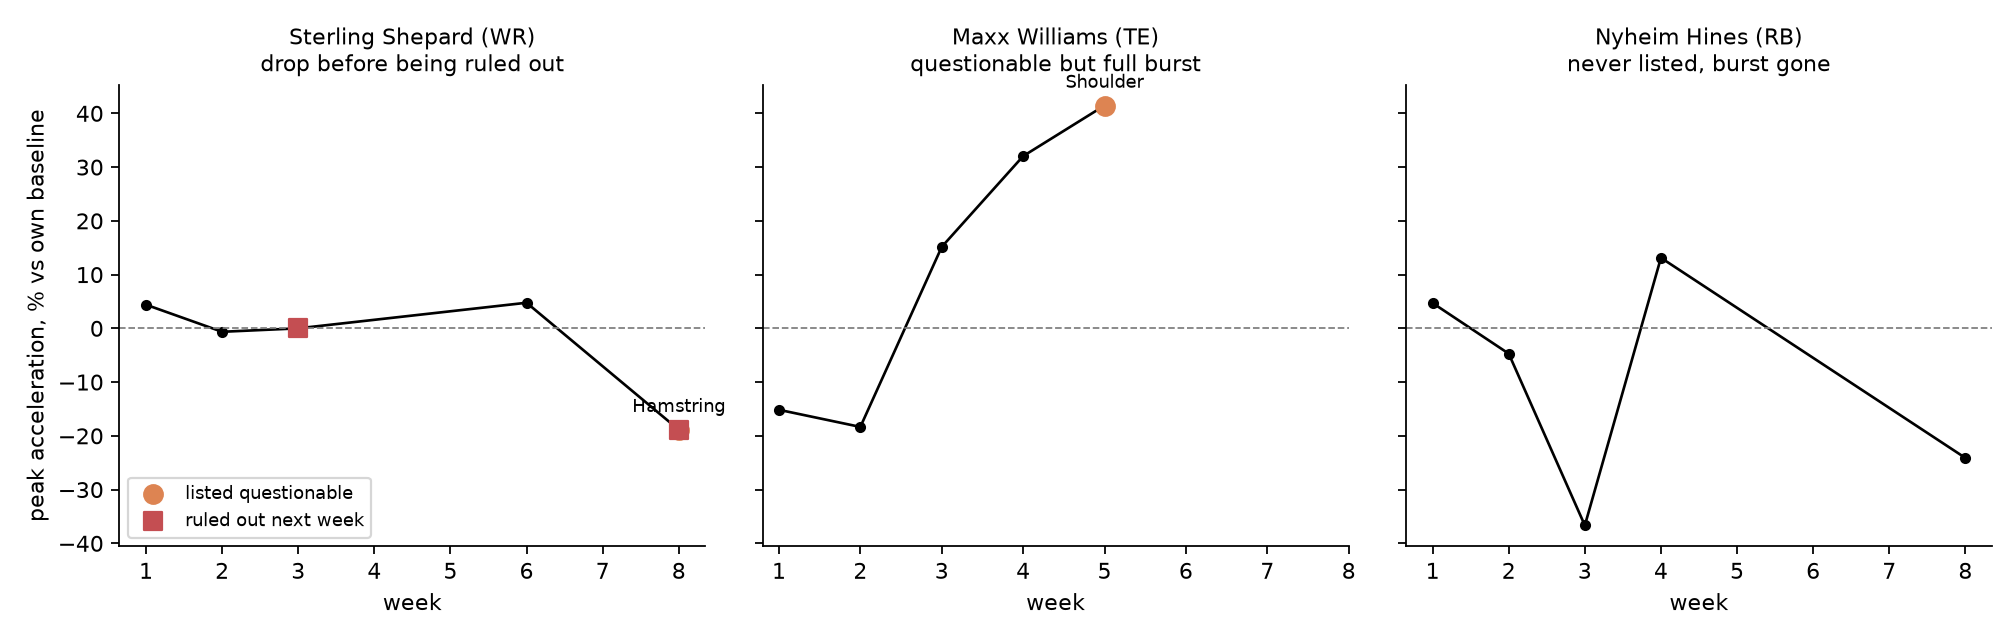
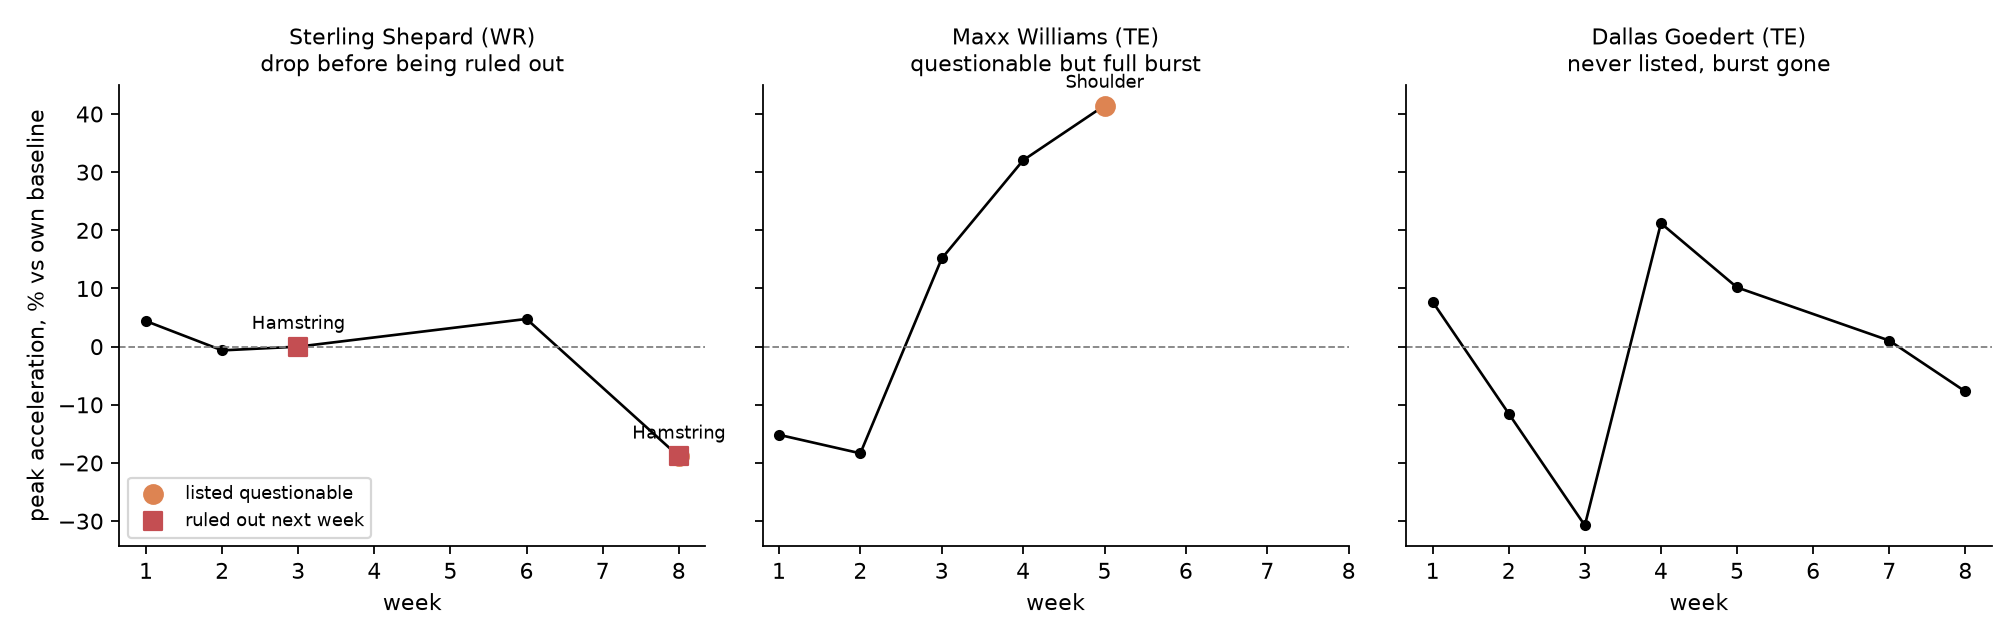
label the injury on the story charts, keep unlisted pick to WR/TE

diff --git a/burst_watch.py b/burst_watch.py
@@ -113,7 +113,7 @@ def pick_story_players(df):
     q = df[df.questionable & ~df.pre_out]
     if len(q):
         picks["questionable but full burst"] = q.sort_values("burst_idx_a").iloc[-1].nflId
-    un = df[df.clean & (df.week > 1)]
+    un = df[df.clean & (df.week > 1) & df.position.isin(["WR", "TE"])]
     if len(un):
         picks["never listed, burst gone"] = un.sort_values("burst_idx_a").iloc[0].nflId
     return picks
@@ -129,9 +129,10 @@ def chart_story_players(df, picks):
                    zorder=2, label="listed questionable")
         ax.scatter(p.week[p.pre_out], p.burst_idx_a[p.pre_out], s=70, color=C_OUT, marker="s",
                    zorder=3, label="ruled out next week")
-        for _, r in p[p.listed].iterrows():
-            if isinstance(r.report_primary_injury, str):
-                ax.annotate(r.report_primary_injury, (r.week, r.burst_idx_a), (0, 8),
+        for _, r in p[p.listed | p.pre_out].iterrows():
+            txt = r.report_primary_injury if isinstance(r.report_primary_injury, str) else r.next_week_out_injury
+            if isinstance(txt, str):
+                ax.annotate(txt, (r.week, r.burst_idx_a), (0, 8),
                             textcoords="offset points", ha="center", fontsize=8)
         ax.axhline(0, color="grey", lw=0.8, ls="--")
         ax.set_title(f"{p.displayName.iloc[0]} ({p.position.iloc[0]})\n{label}", fontsize=10)
